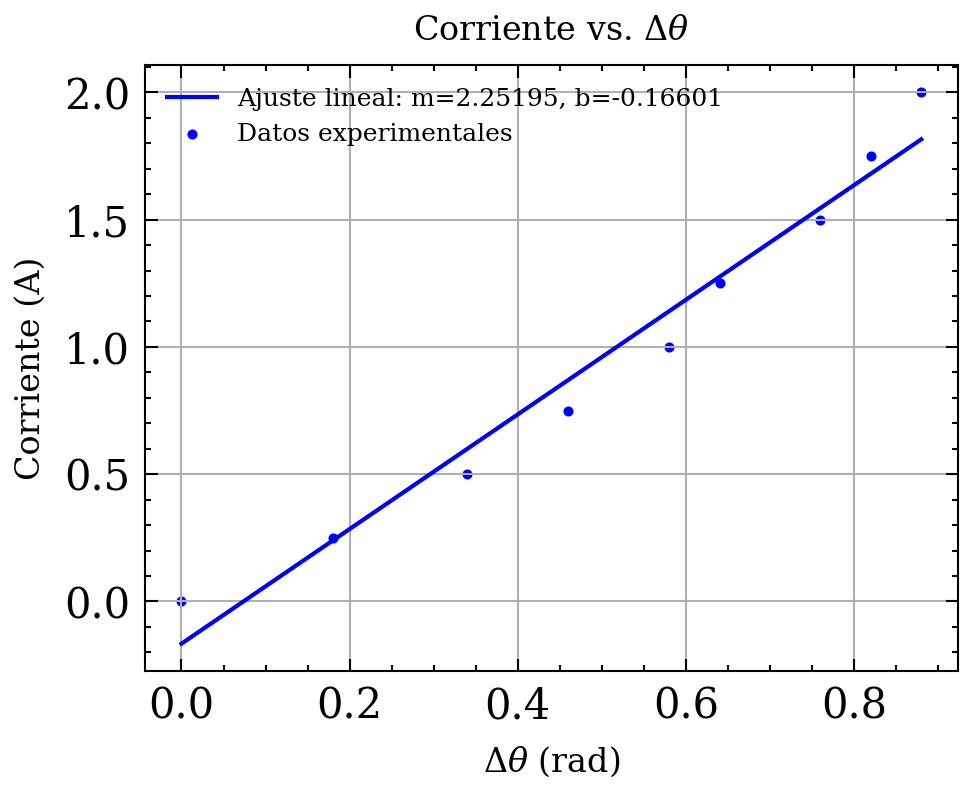
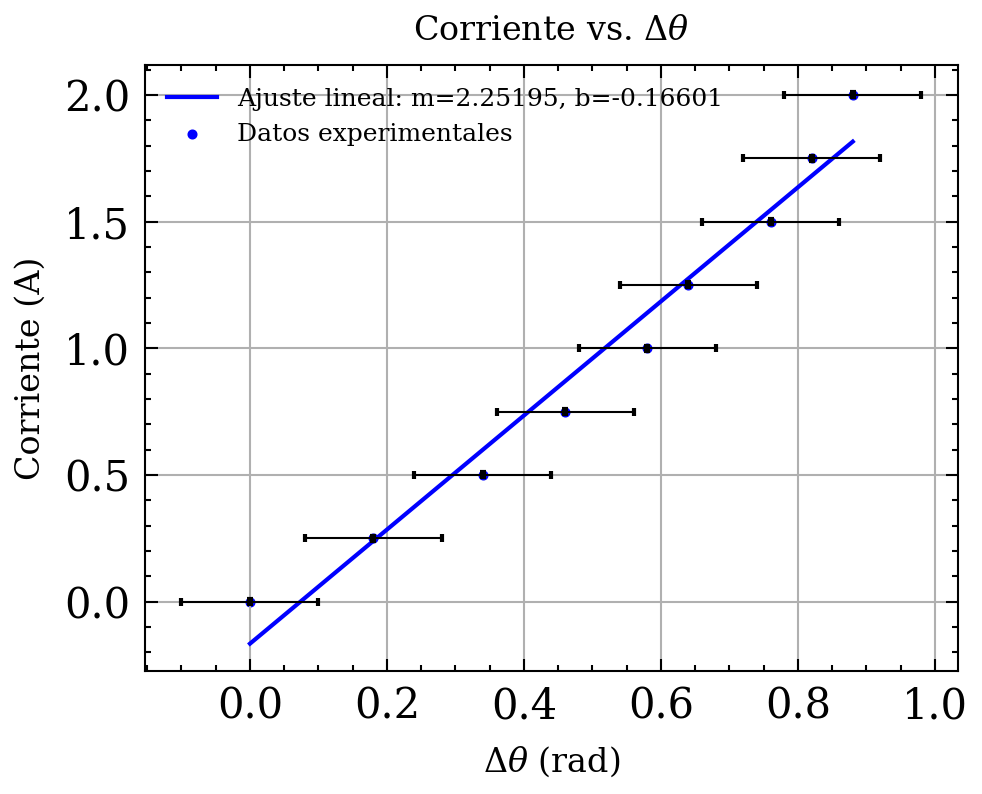
error bars added

diff --git a/4. Oscilador Torsional/informe4.py b/4. Oscilador Torsional/informe4.py
@@ -83,6 +83,7 @@ def actividad2():
                       residuals=True, regresion=True, yerror=errores_periodo, direccion="L", pendiente=True)
     
     # calcular I
+    
     I = pendiente / (2 * np.pi) # (kg*m^2)
     #I = (pendiente / ((2 * np.pi)**2))**2 # (kg*m^2)
     k = I * (2 * np.pi)**2 # (N*m^2)
@@ -107,11 +108,18 @@ def actividad3():
 
     deltas = [posicion - 3 for posicion in posiciones] # (rad)
 
+
+    errores_angulo = [0.1 for i in range(len(deltas))] # (rad)
+    errores_corriente = [0.01 for i in range(len(corrientes))] # (A)
+
     pendiente = graph(deltas, corrientes, "Corriente vs. $\Delta\\theta$", "$\Delta\\theta$ (rad)", "Corriente (A)", "Actividad3", 
-                      residuals=True, regresion=True, pendiente=True, direccion="L")
+                      residuals=True, regresion=True, pendiente=True, direccion="L", yerror=errores_corriente, xerror=errores_angulo)
 
     momentos_magneticos = [pendiente * corriente for corriente in corrientes] # (A*m^2)
 
+    promedio = np.mean(momentos_magneticos)
+
+    print(f"promedio: {promedio}")
     print(f"pendiente: {pendiente}")
     print(f"momentos_magneticos: {momentos_magneticos}")
 
